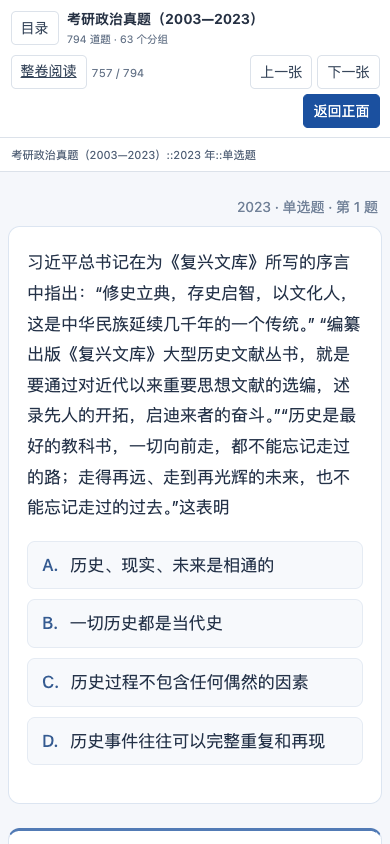
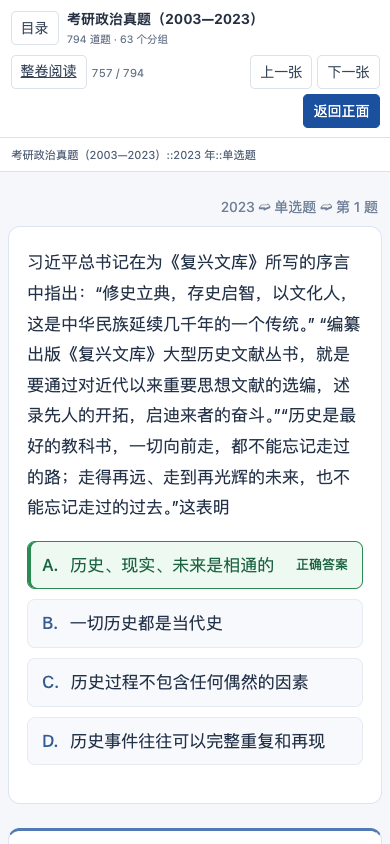
fix: simplify exam location and hide source footer in both clients

diff --git a/anki_pipeline/study_exam_package.py b/anki_pipeline/study_exam_package.py
@@ -18,6 +18,7 @@ FIELDS = ('Title', 'Question', 'Answer', 'Source', 'Status', 'SourceRecord')
 # Shared authored interaction: both Web and Anki execute this exact template.
 CHOICE_SCRIPT = r"""<script>(function(){
  function initialize(){
+  document.querySelectorAll('.exam-location').forEach(function(path){path.textContent=path.textContent.replace(/\s*·\s*/g,' ➫ ');});
   // Preserve source table references in fields/audit, while omitting this
   // section from both learning surfaces and retaining neighboring sections.
   document.querySelectorAll('.exam-answer .exam-body > h2').forEach(function(heading){
@@ -169,7 +170,7 @@ BACK = '{{FrontSide}}<article id="answer" class="exam-notecard exam-answer" data
 CSS = '''.card{font-family:-apple-system,BlinkMacSystemFont,"PingFang SC","Microsoft YaHei",sans-serif;font-size:18px;line-height:1.85;color:#243248;background:#f5f7fb;text-align:left;margin:0;padding:12px;overflow-wrap:break-word}.exam-notecard{box-sizing:border-box;max-width:920px;margin:14px auto 24px;padding:26px 30px;background:white;border:1px solid #dce5f1;border-radius:16px}.exam-heading{padding-bottom:15px;margin-bottom:18px;border-bottom:1px solid #e5ebf3}.exam-heading>span{font-size:13px;font-weight:600;color:#5374a5;letter-spacing:.04em}.exam-heading h1{font-size:20px;line-height:1.5;margin:8px 0 0}.exam-body p{margin:.8em 0}.exam-body h2,.exam-body h3{font-size:18px;margin:1.4em 0 .6em}.choices{display:grid;gap:10px;margin:18px 0}.choice{display:flex;gap:12px;padding:10px 14px;background:#f7f9fc;border:1px solid #e5ebf3;border-radius:8px}.choice>b{flex:none;color:#355b91}.choice>span{min-width:0}.exam-body img{display:block;max-width:100%;height:auto;margin:16px auto}.table-scroll{overflow-x:auto}table{border-collapse:collapse;width:100%;margin:18px 0}th,td{border:1px solid #dce5f1;padding:8px 12px;vertical-align:top}.exam-answer{border-top:3px solid #527bb5}.exam-missing,.exam-answer[data-answer-status=missing]{border-color:#d9b876}.exam-missing{padding:15px;background:#fff9e9;border:1px solid #e5cf9a;border-radius:8px;color:#805f24}.exam-source{font-size:13px;color:#718198;margin-top:24px;padding-top:14px;border-top:1px solid #e5ebf3}.exam-audit{font-size:12px;color:#718198;margin-top:16px}.exam-audit summary{cursor:pointer}.exam-audit pre{white-space:pre-wrap;word-break:break-word;max-height:440px;overflow:auto}.nightMode.card,.night_mode.card{background:#181d25;color:#e2e7ef}.nightMode .exam-notecard,.night_mode .exam-notecard{background:#232b36;border-color:#3d4a5c}.nightMode .choice,.night_mode .choice{background:#2b3544;border-color:#3d4a5c}@media(max-width:600px){.card{padding:8px;font-size:17px}.exam-notecard{padding:20px 18px;border-radius:12px}.exam-heading h1{font-size:18px}}'''
 CSS += '.exam-selection-source[hidden]{display:none!important}.exam-choice-interactive{cursor:pointer;touch-action:manipulation;transition:border-color .12s,background-color .12s}.exam-choice-interactive:hover{border-color:#9bb9e5}.exam-choice-interactive:focus-visible{outline:3px solid #5c8ed3;outline-offset:2px}.exam-choice-selected{background:#e4edff!important;border-color:#386ec2!important;box-shadow:inset 3px 0 #386ec2}.exam-answer-action{display:flex;justify-content:flex-end;margin-top:20px}.exam-answer-action:has(.exam-reveal[hidden]){display:none}.exam-reveal{font:inherit;font-size:15px;font-weight:600;border:1px solid #245fc2;background:#245fc2;color:#fff;border-radius:8px;padding:9px 18px;cursor:pointer;touch-action:manipulation}.exam-reveal[hidden]{display:none!important}.nightMode .exam-choice-selected,.night_mode .exam-choice-selected{background:#263f64!important}'
 
-CSS += '.exam-omitted-section{display:none!important}'
+CSS += '.exam-omitted-section,.exam-source,.exam-audit{display:none!important}'
 
 
 

diff --git a/docs/POLITICS_DUAL_20261031.md b/docs/POLITICS_DUAL_20261031.md
@@ -7,7 +7,7 @@
 - [原书架](http://127.0.0.1:8771/)已增加“考研政治真题（2003—2023）”，保持原三本英语词书入口。
 - [整卷阅读](http://127.0.0.1:8771/politics-dual-20261031/web/papers/index.html)：按年份看完整试卷，逐题展开答案。
 - [逐题浏览与翻面](http://127.0.0.1:8771/politics-dual-20261031/web/index.html)：按年份筛选，搜索题目和完整材料；搜索不索引背面答案。
-- [完整 APKG 下载](http://127.0.0.1:8771/politics-display-clean-20261101/Politics-2003-2023-Clean-20261101.apkg)：2,675,078 字节，约 2.7 MB。手机在同一局域网时，把网址中的 `127.0.0.1` 换成当前电脑地址 `192.168.3.5`。
+- [完整 APKG 下载](http://127.0.0.1:8771/politics-layout-clean-20261101/Politics-2003-2023-Layout-20261101.apkg)：2,675,097 字节，约 2.7 MB。手机在同一局域网时，把网址中的 `127.0.0.1` 换成当前电脑地址 `192.168.3.5`。
 
 每道父题一张卡：正面保留题目、完整材料、全部小问和选项，背面在完整正面下方接答案解析；题目路径显示在右上角，不再重复大标题或“回看”折叠。按年份保留 21 个父牌组，每年再分单选题／多选题／材料分析题，共 63 个有题子牌组，材料题不会把小问拆散。
 
@@ -41,7 +41,7 @@
 
 **Anki 的 APKG 更新会保留既有卡片所在牌组。**仅导入新包不会自动搬动已存在的旧卡，这是原生测试观察到的行为；新装的 794 张会直接进入 63 个子牌组。
 
-1. 先[导入新版 APKG](http://127.0.0.1:8771/politics-display-clean-20261101/Politics-2003-2023-Clean-20261101.apkg)。
+1. 先[导入新版 APKG](http://127.0.0.1:8771/politics-layout-clean-20261101/Politics-2003-2023-Layout-20261101.apkg)。
 2. 已装旧包的用户，再下载[一次性整理工具（电脑版 Anki）](http://127.0.0.1:8771/politics-type-groups-20261101/Politics-By-Type-Organizer.ankiaddon)，在“工具 → 插件 → 从文件安装”中安装并重启 Anki。
 3. 点击“工具 → 整理政治真题：年份 → 题型”，核对数量后确认；完成后正常同步到手机。新装用户无需此工具。
 
@@ -120,3 +120,9 @@
 按用户要求，Anki、逐题网页及整卷网页均不显示 29 处“考点知识还原”标题及对应“见表××”内容；答案、考点点拨与试题简析继续显示。只在既有共享模板中隐藏精确匹配章节，原始字段、SourceRecord、总库来源和审核记录均保留。
 
 794 张卡、63 个题型子牌组和所有媒体不变。29 处逐卡检查及整卷 58 个标题／引用节点隐藏检查通过；原入口实际浏览器验证及官方 Anki 引擎重复更新、字段与学习状态检查通过。[本轮证据](evidence/politics-display-clean-20261101.json)。本次没有改变生成架构或操作用户个人 Anki 集合。
+
+### 右上角路径与来源区（2026-11-01）
+
+Anki 和网页右上角统一显示“2023 ➫ 单选题 ➫ 第 1 题”，不再用中点分隔。图示底部来源文字、题目 ID、来源与原始记录折叠区均隐藏；原始字段与总库记录保留。用户随后要求年份顺序先不改，因此牌组名、目录顺序及 unit overlay 均未改动。
+
+完整包仍有 794 张卡和 63 个题型子牌组；全量浏览器交互回归、实际网页原入口及官方 Anki 引擎更新／学习记录检查通过。[本轮证据](evidence/politics-layout-clean-20261101.json)。本次仍使用既有共享模板和导出器，完整架构图的结构无变化。

diff --git a/README.md b/README.md
@@ -8,9 +8,9 @@
 
 ## 考研政治真题：网页与 Anki（本地新增）
 
-**2003—2023 年，21 套试卷、794 道题，完整包约 2.7 MB。**按“年份 → 单选题／多选题／材料分析题”分为 63 个有题子牌组，每道题一张卡：正面题目、材料、小问和选项，背面在完整题面下接答案解析。单选、多选可点选，再点已选项可取消；去掉正文题号和“已选／清除”栏，年份／题型／题号显示于右上角。网页仅由“查看答案”或顶部“显示答案”翻面；背面标记错选红色、选对绿色、漏选黄色，正面不透露答案。已修复同题跨源页造成的断词断段；Anki 与网页隐藏“考点知识还原”及其“见表”引用，保留答案、考点点拨和试题简析。网页可按整卷阅读，也可逐题搜索、翻面；与英语词书使用同一 PostgreSQL 总库和公共内容投影。
+**2003—2023 年，21 套试卷、794 道题，完整包约 2.7 MB。**按“年份 → 单选题／多选题／材料分析题”分为 63 个有题子牌组，每道题一张卡：正面题目、材料、小问和选项，背面在完整题面下接答案解析。单选、多选可点选，再点已选项可取消；去掉正文题号和“已选／清除”栏，年份／题型／题号在右上角以“➫”分隔；底部来源、题目 ID 和原始记录区域不显示。网页仅由“查看答案”或顶部“显示答案”翻面；背面标记错选红色、选对绿色、漏选黄色，正面不透露答案。已修复同题跨源页造成的断词断段；Anki 与网页隐藏“考点知识还原”及其“见表”引用，保留答案、考点点拨和试题简析。网页可按整卷阅读，也可逐题搜索、翻面；与英语词书使用同一 PostgreSQL 总库和公共内容投影。
 
-[本机原书架](http://127.0.0.1:8771/) · [整卷阅读](http://127.0.0.1:8771/politics-dual-20261031/web/papers/index.html) · [逐题浏览](http://127.0.0.1:8771/politics-dual-20261031/web/index.html) · [完整 APKG 下载](http://127.0.0.1:8771/politics-display-clean-20261101/Politics-2003-2023-Clean-20261101.apkg) · [交付和验收说明](docs/POLITICS_DUAL_20261031.md)
+[本机原书架](http://127.0.0.1:8771/) · [整卷阅读](http://127.0.0.1:8771/politics-dual-20261031/web/papers/index.html) · [逐题浏览](http://127.0.0.1:8771/politics-dual-20261031/web/index.html) · [完整 APKG 下载](http://127.0.0.1:8771/politics-layout-clean-20261101/Politics-2003-2023-Layout-20261101.apkg) · [交付和验收说明](docs/POLITICS_DUAL_20261031.md)
 
 源库有 **569 道已映射答案，另 225 道（2003—2008）缺答案，明确标记并默认停学**；题目全部保留，不编造解析。当前为本地交付，未发布远端；政治网页暂为浏览与整卷阅读，不含网页复习评分及 Anki 进度同步。已通过官方 Anki 引擎导入、重复更新和实际浏览器检查。手机自定义“查看答案”原生翻面已由用户在独立两张验证卡上确认可用，现已接入完整包；每次新题默认未选，仅本题翻背面保留选择。完整包和本轮选项重置仍待手机实测，详见[本轮证据](docs/evidence/politics-mobile-20261101.json)。
 
